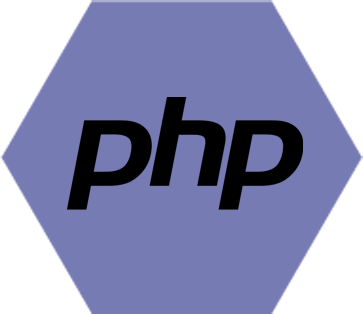
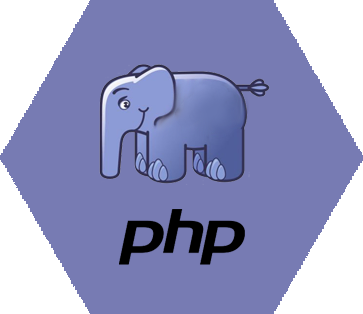
Добавил иконки, Стили к иконкам, Оформление иконкам

diff --git a/postcss/style.css b/postcss/style.css
@@ -1,1 +1,1 @@
-@font-face{font-family:Ubuntu;src:url(../fonts/ubuntu.ttf) format("truetype");font-weight:400;font-style:normal}@font-face{font-family:Ubuntu;src:url(../fonts/ubuntu-bold.ttf) format("truetype");font-weight:700;font-style:normal}html{font-size:16px;color:#424242;background:url(http://pattern4site.ru/images/pattern/_rebig/7-fon-dlya-sayta.png);font-family:Ubuntu}h5{font-weight:600}.h2-text h2{font-size:1.7vw;display:inline-block}.text-size{font-size:1.625rem;font-weight:300;font-style:italic}button.text-size{font-weight:400;font-style:normal}[type=checkbox]:checked+label:before{border-right:2px solid #546e7a;border-bottom:2px solid #546e7a}[type=checkbox]+label:before,[type=checkbox]:not(.filled-in)+label:after{top:3px;left:12px;width:15px;height:15px}[type=checkbox]:checked+label:before{left:0}label[for=check]{font-size:.8rem;color:#546e7a;font-weight:500;margin-bottom:30px}input:not([type]),input[type=date]:not(.browser-default),input[type=datetime-local]:not(.browser-default),input[type=datetime]:not(.browser-default),input[type=email]:not(.browser-default),input[type=number]:not(.browser-default),input[type=password]:not(.browser-default),input[type=search]:not(.browser-default),input[type=tel]:not(.browser-default),input[type=text]:not(.browser-default),input[type=time]:not(.browser-default),input[type=url]:not(.browser-default),textarea.materialize-textarea{margin:0 0 10px}input[type=email],input[type=text]{-webkit-box-shadow:0 0 0!important;box-shadow:0 0 0!important;border:2px inset #d4d4d4!important;border-top-color:#fff!important;border-left-color:#fff!important;padding:0 10px!important;background-color:#e1e1e1!important}input[type=email]:focus,input[type=text]:focus{border-color:#c5c5c5!important;border-left-color:#d7d7d7!important;border-top-color:#dcdcdc!important}input::-webkit-input-placeholder{color:#546e7a}input:-ms-input-placeholder,input::-ms-input-placeholder{color:#546e7a}input::placeholder{color:#546e7a}.gradient{background:-webkit-gradient(linear,left top,left bottom,from(hsla(0,0%,95%,.63)),to(hsla(0,0%,100%,0)));background:linear-gradient(180deg,hsla(0,0%,95%,.63) 0,hsla(0,0%,100%,0));filter:progid:DXImageTransform.Microsoft.gradient(startColorstr="#ffffff",endColorstr="#00ffffff",GradientType=0)}nav ul#nav-mobile>li>a{color:#354142;text-shadow:1px 1px 8px #fff;font-weight:700}nav ul#nav-mobile>li>a:hover{color:#fff;background-color:rgba(84,110,122,.6)}.advantage~p{font-size:1.25rem}.pt-20{padding-top:20px}.pb-20{padding-bottom:20px}.adaptive-block1{font-size:3rem;padding-top:3em;font-weight:700}.php{background:url(../img/technologies/php.png);background-position:50%;background-size:contain;height:120px;background-repeat:no-repeat}button.full-width{width:100%}strong.advantage{font-size:5rem}.logo{width:75px}.h0{height:0}.mb-0{margin-bottom:0}.parallax-photo{height:300px;-webkit-clip-path:polygon(0 0,-2% 0,100% 7%,100% 100%,0 93%,0 7%);clip-path:polygon(0 0,-2% 0,100% 7%,100% 100%,0 93%,0 7%)}.parallax-photo-inverse{height:100%;-webkit-clip-path:polygon(0 3%,100% 0,100% 100%,100% 100%,100% 97%,0 100%);clip-path:polygon(0 3%,100% 0,100% 100%,100% 100%,100% 97%,0 100%)}.more-about{margin:65px 0;font-size:1.125rem;font-weight:300}.main_photo{background-image:url(../img/main/mountains.gif);display:block;height:600px;background-size:cover;background-position:50%}.posrel{position:relative}.mb-20{margin-bottom:20px}.mt-20{margin-top:20px}.submit-but{border:0;padding:10px 45px;float:left}.form-img{width:40%;height:100%;top:0;right:0;-o-object-fit:cover;object-fit:cover;position:absolute}.mt-50{margin-top:50px}.mb-60{margin-bottom:60px}.mt-60{margin-top:60px}#back-to-top{position:fixed;bottom:40px;right:40px;z-index:1;width:32px;height:32px;text-align:center;line-height:30px;background-color:#546e7a;color:#fff;cursor:pointer;border:0;border-radius:50%;text-decoration:none;-webkit-transition:opacity .2s ease-out;transition:opacity .2s ease-out;opacity:0;-webkit-box-shadow:1px 3px 8px #546e7a;box-shadow:1px 3px 8px #546e7a}#back-to-top>.fa-angle-up{font-size:29px}#back-to-top.show{opacity:1}
+@font-face{font-family:Ubuntu;src:url(../fonts/ubuntu.ttf) format("truetype");font-weight:400;font-style:normal}@font-face{font-family:Ubuntu;src:url(../fonts/ubuntu-bold.ttf) format("truetype");font-weight:700;font-style:normal}html{font-size:16px;color:#424242;background:url(http://pattern4site.ru/images/pattern/_rebig/7-fon-dlya-sayta.png);font-family:Ubuntu}h5{font-weight:600}.h2-text h2{font-size:1.7vw;display:inline-block}.text-size{font-size:1.625rem;font-weight:300;font-style:italic}button.text-size{font-weight:400;font-style:normal}[type=checkbox]:checked+label:before{border-right:2px solid #546e7a;border-bottom:2px solid #546e7a}[type=checkbox]+label:before,[type=checkbox]:not(.filled-in)+label:after{top:3px;left:12px;width:15px;height:15px}[type=checkbox]:checked+label:before{left:0}label[for=check]{font-size:.8rem;color:#546e7a;font-weight:500;margin-bottom:30px}input:not([type]),input[type=date]:not(.browser-default),input[type=datetime-local]:not(.browser-default),input[type=datetime]:not(.browser-default),input[type=email]:not(.browser-default),input[type=number]:not(.browser-default),input[type=password]:not(.browser-default),input[type=search]:not(.browser-default),input[type=tel]:not(.browser-default),input[type=text]:not(.browser-default),input[type=time]:not(.browser-default),input[type=url]:not(.browser-default),textarea.materialize-textarea{margin:0 0 10px}input[type=email],input[type=text]{-webkit-box-shadow:0 0 0!important;box-shadow:0 0 0!important;border:2px inset #d4d4d4!important;border-top-color:#fff!important;border-left-color:#fff!important;padding:0 10px!important;background-color:#e1e1e1!important}input[type=email]:focus,input[type=text]:focus{border-color:#c5c5c5!important;border-left-color:#d7d7d7!important;border-top-color:#dcdcdc!important}input::-webkit-input-placeholder{color:#546e7a}input:-ms-input-placeholder,input::-ms-input-placeholder{color:#546e7a}input::placeholder{color:#546e7a}.gradient{background:-webkit-gradient(linear,left top,left bottom,from(hsla(0,0%,95%,.63)),to(hsla(0,0%,100%,0)));background:linear-gradient(180deg,hsla(0,0%,95%,.63) 0,hsla(0,0%,100%,0));filter:progid:DXImageTransform.Microsoft.gradient(startColorstr="#ffffff",endColorstr="#00ffffff",GradientType=0)}nav ul#nav-mobile>li>a{color:#354142;text-shadow:1px 1px 8px #fff;font-weight:700}nav ul#nav-mobile>li>a:hover{color:#fff;background-color:rgba(84,110,122,.6)}.advantage~p{font-size:1.25rem}.pt-20{padding-top:20px}.pb-20{padding-bottom:20px}.adaptive-block1{font-size:3rem;padding-top:3em;font-weight:700}.php{background:url(../img/technologies/php.png)}.js{background:url(../img/technologies/js.png)}.st{background:url(../img/technologies/st.png)}.js,.php,.st{background-position:50%;background-size:contain;height:120px;background-repeat:no-repeat}button.full-width{width:100%}strong.advantage{font-size:5rem}.logo{width:75px}.h0{height:0}.mb-0{margin-bottom:0}.parallax-photo{height:300px;-webkit-clip-path:polygon(0 0,-2% 0,100% 7%,100% 100%,0 93%,0 7%);clip-path:polygon(0 0,-2% 0,100% 7%,100% 100%,0 93%,0 7%)}.parallax-photo-inverse{height:100%;-webkit-clip-path:polygon(0 3%,100% 0,100% 100%,100% 100%,100% 97%,0 100%);clip-path:polygon(0 3%,100% 0,100% 100%,100% 100%,100% 97%,0 100%)}.more-about{margin:65px 0;font-size:1.125rem;font-weight:300}.main_photo{background-image:url(../img/main/mountains.gif);display:block;height:600px;background-size:cover;background-position:50%}.posrel{position:relative}.mb-20{margin-bottom:20px}.mt-20{margin-top:20px}.submit-but{border:0;padding:10px 45px;float:left}.form-img{width:40%;height:100%;top:0;right:0;-o-object-fit:cover;object-fit:cover;position:absolute}.mt-50{margin-top:50px}.mb-60{margin-bottom:60px}.mt-60{margin-top:60px}#back-to-top{position:fixed;bottom:40px;right:40px;z-index:1;width:32px;height:32px;text-align:center;line-height:30px;background-color:#546e7a;color:#fff;cursor:pointer;border:0;border-radius:50%;text-decoration:none;-webkit-transition:opacity .2s ease-out;transition:opacity .2s ease-out;opacity:0;-webkit-box-shadow:1px 3px 8px #546e7a;box-shadow:1px 3px 8px #546e7a}#back-to-top>.fa-angle-up{font-size:29px}#back-to-top.show{opacity:1}

diff --git a/index.html b/index.html
@@ -124,32 +124,53 @@
         <!-- Блок 6 - начало -->
         <div class="container">
 			<h3 class="center">Технологии</h3>
+			<h5>Инструменты</h5>
+			<div class="row">
+				<div class="col s2 st"></div>
+				<div class="col s2 php"></div>
+				<div class="col s2 php"></div>
+				<div class="col s2 php"></div>
+				<div class="col s2 php"></div>
+				<div class="col s2 php"></div>
+			</div>
+			<h5>Основы Web</h5>
+			<div class="row">
+				<div class="col s2 php"></div>
+				<div class="col s2 php"></div>
+				<div class="col s2 php"></div>
+				<div class="col s2 php"></div>
+				<div class="col s2 php"></div>
+				<div class="col s2 php"></div>
+			</div>
+			<div class="row">
+				<div class="col s2 php"></div>
+				<div class="col s2 php"></div>
+			</div>
+			<h5>CMS</h5>
+			<div class="row">
+				<div class="col s2 php"></div>
+				<div class="col s2 php"></div>
+				<div class="col s2 php"></div>
+				<div class="col s2 php"></div>
+				<div class="col s2 php"></div>
+				<div class="col s2 php"></div>
+			</div>
+			<div class="row">
+				<div class="col s2 php"></div>
+				<div class="col s2 php"></div>
+				<div class="col s2 php"></div>
+				<div class="col s2 php"></div>
+				<div class="col s2 php"></div>
+				<div class="col s2 php"></div>
+			</div>
+			<div class="row">
+				<div class="col s2 php"></div>
+				<div class="col s2 php"></div>
+			</div>
 			<h5>Языки</h5>
 			<div class="row">
 				<div class="col s2 php"></div>
-				<div class="col s2 php"></div>
-				<div class="col s2 php"></div>
-				<div class="col s2 php"></div>
-				<div class="col s2 php"></div>
-				<div class="col s2 php"></div>
-			</div>
-			<h5>Препроцессоры</h5>
-			<div class="row">
-				<div class="col s2 php"></div>
-				<div class="col s2 php"></div>
-				<div class="col s2 php"></div>
-				<div class="col s2 php"></div>
-				<div class="col s2 php"></div>
-				<div class="col s2 php"></div>
-			</div>
-			<div class="row">
-				<div class="col s2 php"></div>
-				<div class="col s2 php"></div>
-			</div>
-			<h5>Frameworks</h5>
-			<div class="row">
-				<div class="col s2 php"></div>
-				<div class="col s2 php"></div>
+				<div class="col s2 js"></div>
 				<div class="col s2 php"></div>
 				<div class="col s2 php"></div>
 				<div class="col s2 php"></div>
@@ -160,14 +181,8 @@
 				<div class="col s2 php"></div>
 				<div class="col s2 php"></div>
 				<div class="col s2 php"></div>
-				<div class="col s2 php"></div>
-				<div class="col s2 php"></div>
 			</div>
-			<div class="row">
-				<div class="col s2 php"></div>
-				<div class="col s2 php"></div>
-			</div>
-			<h5>Инструменты</h5>
+			<h5>Frontend</h5>
 			<div class="row">
 				<div class="col s2 php"></div>
 				<div class="col s2 php"></div>
@@ -182,6 +197,36 @@
 				<div class="col s2 php"></div>
 				<div class="col s2 php"></div>
 			</div>
+			<h5>Backend</h5>
+			<div class="row">
+				<div class="col s2 php"></div>
+				<div class="col s2 php"></div>
+				<div class="col s2 php"></div>
+				<div class="col s2 php"></div>
+				<div class="col s2 php"></div>
+				<div class="col s2 php"></div>
+			</div>
+			<div class="row">
+				<div class="col s2 php"></div>
+				<div class="col s2 php"></div>
+				<div class="col s2 php"></div>
+				<div class="col s2 php"></div>
+			</div>
+<!-- 			<h5>SEO</h5>
+			<div class="row">
+				<div class="col s2 php"></div>
+				<div class="col s2 php"></div>
+				<div class="col s2 php"></div>
+				<div class="col s2 php"></div>
+				<div class="col s2 php"></div>
+				<div class="col s2 php"></div>
+			</div>
+			<div class="row">
+				<div class="col s2 php"></div>
+				<div class="col s2 php"></div>
+				<div class="col s2 php"></div>
+				<div class="col s2 php"></div>
+			</div> -->
         </div>
         <!-- Блок 6 - конец -->
         <!-- Блок 7 - начало -->

diff --git a/css/style.css b/css/style.css
@@ -135,6 +135,17 @@ nav ul#nav-mobile>li>a:hover{
 
 .php{
     background: url("../img/technologies/php.png");
+}
+
+.js{
+    background: url("../img/technologies/js.png");
+}
+
+.st{
+    background:  url("../img/technologies/st.png");
+}
+
+.php, .js, .st{
     background-position: center;
     background-size: contain;
     height: 120px;
